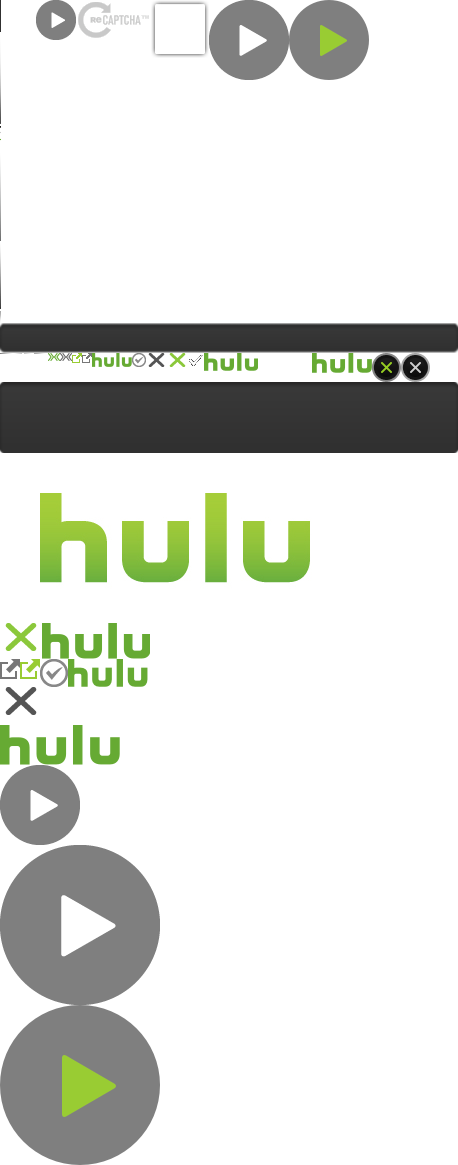
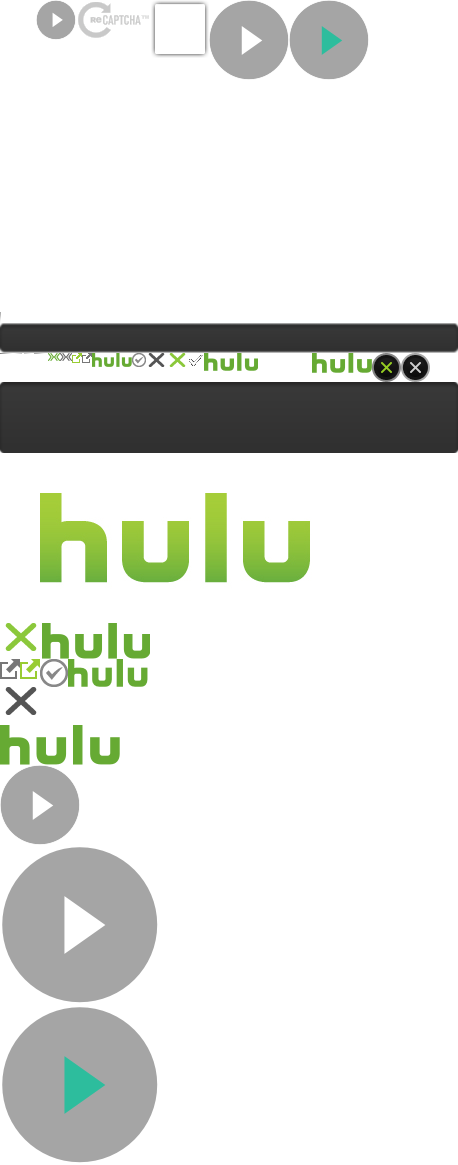
changes to account management

Changed region(s): [[0.0, 0.6489, 0.3668, 1.0], [0.4585, 0.0, 0.8253, 0.0927], [0.0611, 0.0, 0.1834, 0.0309]]

diff --git a/acctM.css b/acctM.css
@@ -1,0 +1,101 @@
+div.lightbox #verify-pass-dialog .heading {
+    font-weight: 500;
+    font-size: 16px;
+    margin-bottom: 10px;
+    font-family: 'Graphik', Helvetica, Arial, sans-serif;
+    color: #5E6573;
+}
+#gate-view-container #verify-pass-dialog .content-container .current-email, .gate-view-container #verify-pass-dialog .content-container .current-email {
+    width: 320px;
+    padding-bottom: 14px;
+    padding-top: 5px;
+    font-family: 'Graphik', Helvetica, Arial, sans-serif;
+    font-weight: 400;
+    color: #AEB4BF;
+}
+/*password field*/
+div.lightbox #verify-pass-dialog input[type="password"]{
+	border: 1px solid #E4E4E4;
+	background-color:#fff;
+}
+div.lightbox label.in-field {
+    color: #AEB4BF;
+    font-family: 'Graphik', Helvetica, Arial, sans-serif;
+    font-size: 14px;
+    margin-top: 19px;
+    font-weight:400;
+}
+
+/*box filled in/yellow */
+input:-webkit-autofill, textarea:-webkit-autofill, select:-webkit-autofill {
+	background-color:#fff !important;
+	border: 1px solid #2DBD9D !important;
+}
+/*password field in*/
+div.lightbox #verify-pass-dialog input[type="password"]{
+	font-family: 'Graphik', Helvetica, Arial, sans-serif;
+	color: #5E6573;
+}
+/*log in button*/
+.button.green.disabled {
+    border: 0px;
+    background-color: #2DBD9D;
+    background: -moz-linear-gradient(270deg, rgba(114,222,147,0.45) 0%, hsla(167, 62%, 46%, 0.45) 100%);;
+    background: -webkit-gradient(linear, left top, right top, color-stop(0%, #2DBD9D), color-stop(100%, #72DE93));
+    background: -webkit-linear-gradient(270deg, rgba(114,222,147,0.45) 0%, hsla(167, 62%, 46%, 0.45) 100%);;
+    background: -o-linear-gradient(270deg, rgba(114,222,147,0.45) 0%, hsla(167, 62%, 46%, 0.45) 100%);;
+    background: -ms-linear-gradient(270deg, rgba(114,222,147,0.45) 0%, hsla(167, 62%, 46%, 0.45) 100%);;;
+    background: linear-gradient(270deg, rgba(114,222,147,0.45) 0%, hsla(167, 62%, 46%, 0.45) 100%);
+    filter: progid:DXImageTransform.Microsoft.gradient( startColorstr='#2DBD9D', endColorstr='#72DE93',GradientType=1 );
+}
+.button.green{
+	  border: 0px;
+    background-color: #2DBD9D;
+    background: -moz-linear-gradient(270deg, #72DE93 0%, #2DBD9D 100%);
+    background: -webkit-gradient(linear, left top, right top, color-stop(0%, #2DBD9D), color-stop(100%, #72DE93));
+    background: -webkit-linear-gradient(270deg, #72DE93 0%, #2DBD9D 100%);
+    background: -o-linear-gradient(270deg, #72DE93 0%, #2DBD9D 100%);
+    background: -ms-linear-gradient(270deg, #72DE93 0%, #2DBD9D 100%);
+    background: linear-gradient(270deg, #72DE93 0%, #2DBD9D 100%);
+    filter: progid:DXImageTransform.Microsoft.gradient( startColorstr='#2DBD9D', endColorstr='#72DE93',GradientType=1 );
+}
+.button.green:hover, .button.green.zeroclipboard-is-hover{
+	border: 0px;
+    background-color: #2DBD9D;
+    background: -moz-linear-gradient(270deg, #72DE93 0%, #2DBD9D 100%);
+    background: -webkit-gradient(linear, left top, right top, color-stop(0%, #2DBD9D), color-stop(100%, #72DE93));
+    background: -webkit-linear-gradient(270deg, #72DE93 0%, #2DBD9D 100%);
+    background: -o-linear-gradient(270deg, #72DE93 0%, #2DBD9D 100%);
+    background: -ms-linear-gradient(270deg, #72DE93 0%, #2DBD9D 100%);
+    background: linear-gradient(270deg, #72DE93 0%, #2DBD9D 100%);
+    filter: progid:DXImageTransform.Microsoft.gradient( startColorstr='#2DBD9D', endColorstr='#72DE93',GradientType=1 );
+}
+.profile .account .button.green{
+	color:#fff;
+	text-transform:uppercase;
+	font-family: 'Graphik', Helvetica, Arial, sans-serif;
+	font-weight:600;
+
+}
+.profile .account .button.disabled{
+	color:#fff;
+	text-transform:uppercase;
+	font-family: 'Graphik', Helvetica, Arial, sans-serif;
+		font-weight:600;
+
+}
+.help-info a.blue-link {
+    color: #3370BB;
+}
+
+
+/*error states*/
+div.lightbox #verify-pass-dialog input[type="password"].ferror {
+    margin-bottom: 2px;
+    background-color: #ffffff;
+    /* border-color: #f23609; */
+    border: 1px solid #E6411D;
+}
+div.lightbox #verify-pass-dialog div#result-error {
+    color: #E6411D;
+}

diff --git a/hover-meta.css b/hover-meta.css
@@ -133,3 +133,10 @@ a.blue-link:hover {
     color: #5e6573;
     font-family: 'Graphik', Helvetica, Arial, sans-serif;
 }
+
+
+
+/*hover meta play button*/
+div.play-hover-button.small{
+  background-image: url(http://localhost:8888/bowie/images/hover_play.png);
+}

diff --git a/bowie-bridge.css b/bowie-bridge.css
@@ -9,6 +9,7 @@
 @import url(player.css);
 @import url(pickProfile.css);
 @import url(logIn-modal.css);
+@import url(acctM.css);
 
 /*  Body  */
 
